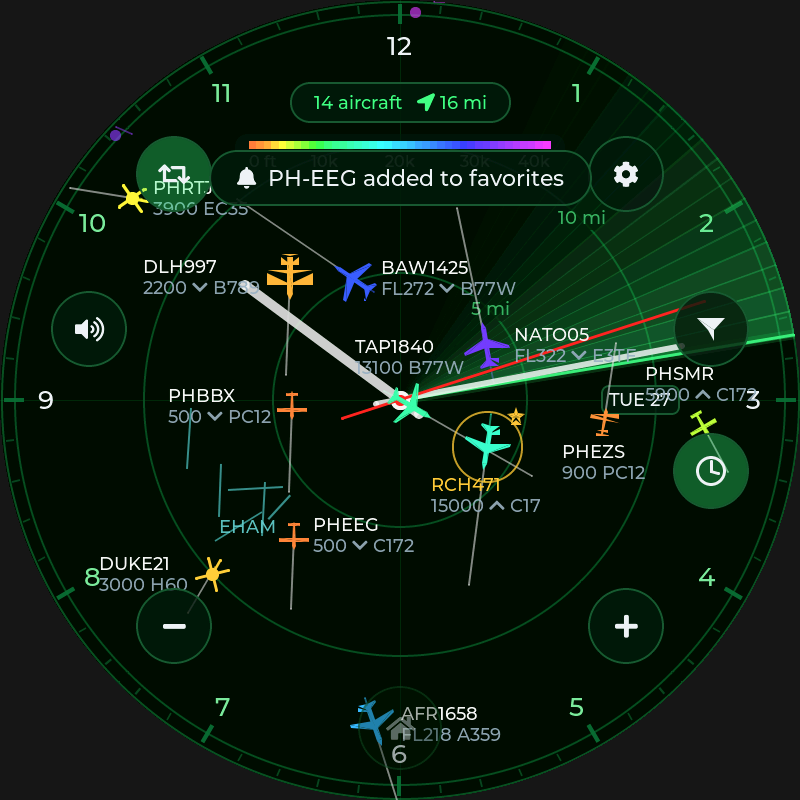
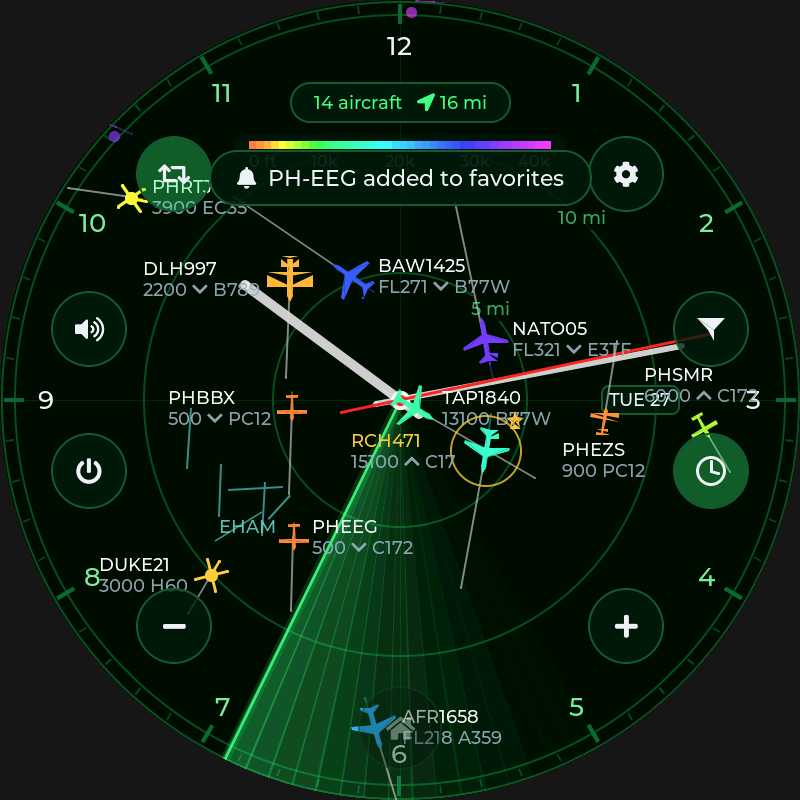
Sleep button: screen off and muted until a tap
- Power button on the radar (left, mirroring the clock button).
- app::setSleeping(): backlight off, app sounds muted, dimming paused;
  alarms still ring and wake it.
- A black full-screen layer takes the waking tap and waits for release, so
  the tap never presses anything underneath. Simulator checks this.

Claude-Session: https://claude.ai/code/session_01HfMd1HJ3Bw5mqceYhznHAm

diff --git a/main/app/app.cpp b/main/app/app.cpp
@@ -32,6 +32,7 @@ constexpr uint32_t kSaveDebounceMs = 2500;
 
 uint32_t s_last_activity = 0;
 bool s_dimmed = false;
+bool s_sleeping = false;  // screen off and sounds muted until a tap (or an alarm)
 
 // Alarms (UI task only).
 int s_ringing = -1;
@@ -118,7 +119,8 @@ bool downloadTrace(const char* hex, core::trace::Trace* out) {
 }
 
 void applyHardware() {
-  if (!s_dimmed) plat::setBrightness(s_settings.brightness);
+  if (s_sleeping) plat::setBrightness(0);
+  else if (!s_dimmed) plat::setBrightness(s_settings.brightness);
   // A ringing alarm is never quieter than 70 %, whatever the volume setting.
   plat::setVolume(s_ringing >= 0 ? std::max<int>(s_settings.volume, 70) : s_settings.volume);
 }
@@ -129,7 +131,8 @@ void startRinging(int index) {
   s_next_beep_ms = s_ring_started_ms;
   s_snoozed = -1;
   s_snooze_until_s = 0;
-  userActivity();  // wake a dimmed screen
+  s_sleeping = false;  // an alarm wakes a sleeping screen
+  userActivity();      // and a dimmed one
   applyHardware();
 }
 
@@ -325,7 +328,7 @@ void tick(uint32_t now_ms) {
   checkAlarms(now_ms);
   if (s_dirty && now_ms - s_dirty_since >= kSaveDebounceMs) settingsFlush();
 
-  if (s_settings.dim_after_min > 0 && !s_dimmed &&
+  if (s_settings.dim_after_min > 0 && !s_dimmed && !s_sleeping &&
       now_ms - s_last_activity >= s_settings.dim_after_min * 60000u) {
     s_dimmed = true;
     plat::setBrightness(s_settings.dim_brightness);
@@ -362,9 +365,19 @@ int snoozeMinutesLeft() {
   return left <= 0 ? 0 : static_cast<int>((left + 59) / 60);
 }
 
+void setSleeping(bool on) {
+  if (on == s_sleeping) return;
+  s_sleeping = on;
+  s_dimmed = false;
+  s_last_activity = plat::millis();
+  applyHardware();
+}
+
+bool sleeping() { return s_sleeping; }
+
 bool userActivity() {
   s_last_activity = plat::millis();
-  if (!s_dimmed) return false;
+  if (s_sleeping || !s_dimmed) return false;  // waking from sleep is the UI's job (one tap)
   s_dimmed = false;
   plat::setBrightness(s_settings.brightness);
   return true;
@@ -632,7 +645,7 @@ void startNetworkTask() { plat::startTask("adsb", networkLoop, 16 * 1024, 4); }
 
 void sound(core::Sound s) {
   const core::Settings& st = s_settings;
-  if (!st.sound_enabled) return;
+  if (!st.sound_enabled || s_sleeping) return;
   switch (s) {
     case core::Sound::Click: if (!st.sound_touch) return; break;
     case core::Sound::Ping: if (!st.sound_sweep_ping) return; break;

diff --git a/main/ui/ui.cpp b/main/ui/ui.cpp
@@ -94,7 +94,35 @@ void updateAlarmDialog() {
   }, true);
 }
 
+// While asleep: a black, full-screen layer that takes the waking tap, so the
+// tap can't also press whatever is under it.
+lv_obj_t* s_sleep_layer = nullptr;
+
+void onSleepPressed(lv_event_t*) {
+  lv_indev_t* indev = lv_indev_active();
+  if (indev) lv_indev_wait_release(indev);  // the rest of this touch does nothing
+  app::setSleeping(false);
+}
+
+void updateSleepLayer() {
+  const bool asleep = app::sleeping();
+  if (asleep && s_sleep_layer == nullptr) {
+    s_sleep_layer = lv_obj_create(lv_layer_top());
+    lv_obj_remove_style_all(s_sleep_layer);
+    lv_obj_set_size(s_sleep_layer, screenW(), screenH());
+    lv_obj_set_style_bg_color(s_sleep_layer, lv_color_black(), 0);
+    lv_obj_set_style_bg_opa(s_sleep_layer, LV_OPA_COVER, 0);
+    lv_obj_add_flag(s_sleep_layer, LV_OBJ_FLAG_CLICKABLE);
+    lv_obj_add_event_cb(s_sleep_layer, onSleepPressed, LV_EVENT_PRESSED, nullptr);
+    lv_obj_move_background(s_sleep_layer);  // an alarm dialog stays on top of it
+  } else if (!asleep && s_sleep_layer != nullptr) {
+    lv_obj_delete_async(s_sleep_layer);  // we may be inside its own event
+    s_sleep_layer = nullptr;
+  }
+}
+
 void onAppTimer(lv_timer_t*) {
+  updateSleepLayer();
   updateAlarmDialog();
   // Any touch on any screen keeps the backlight up.
   if (lv_display_get_inactive_time(s_disp) < 400) app::userActivity();
@@ -134,6 +162,8 @@ bool sameFavorites(const std::vector<core::Favorite>& a, const std::vector<core:
 }
 
 }  // namespace
+
+bool settingsOpen() { return s_settings_screen != nullptr; }
 
 void openSettings(Page page) {
   if (s_settings_screen != nullptr) return;

diff --git a/main/ui/hud.cpp b/main/ui/hud.cpp
@@ -31,6 +31,7 @@ struct Hud {
   lv_obj_t* mute = nullptr;
   lv_obj_t* mute_label = nullptr;
   lv_obj_t* clock = nullptr;
+  lv_obj_t* sleep = nullptr;
   lv_obj_t* alt_key = nullptr;    // altitude color scale under the status pill
   lv_obj_t* alarm_box = nullptr;  // "alarm ringing" dialog, while shown
   lv_obj_t* gear = nullptr;
@@ -420,6 +421,7 @@ void leavePickMode() {
   setHidden(h.filter, false);
   setHidden(h.mute, false);
   setHidden(h.clock, false);
+  setHidden(h.sleep, false);
   updateCard();
 }
 
@@ -472,6 +474,7 @@ void enterPickMode() {
   setHidden(h.filter, true);
   setHidden(h.mute, true);
   setHidden(h.clock, true);
+  setHidden(h.sleep, true);
   updateCard();
 }
 
@@ -546,6 +549,10 @@ void create(lv_obj_t* parent) {
     lv_obj_set_style_image_recolor_opa(icon, LV_OPA_COVER, 0);
   }
   placePolar(h.clock, 103, 0.80f);
+
+  // Sleep, mirroring the clock button: screen off and quiet until a tap.
+  h.sleep = iconButton(h.controls, LV_SYMBOL_POWER, d, [] { app::setSleeping(true); });
+  placePolar(h.sleep, -103, 0.80f);
 
   // Mute, mirroring the filter button on the left.
   h.mute = iconButton(h.controls, LV_SYMBOL_VOLUME_MAX, d, [] {

diff --git a/sim/sim_main.cpp b/sim/sim_main.cpp
@@ -504,6 +504,18 @@ int main(int argc, char** argv) {
     shot((p + "38_changes_discarded").c_str());
   }
 
+  // Sleep: screen off, then one tap on top of the gear button only wakes it.
+  {
+    app::setSleeping(true);
+    run(600);
+    shot((p + "50_sleeping").c_str());
+    tap(S(626), S(174));  // where the gear button is
+    run(600);
+    const bool ok = !app::sleeping() && !ui::settingsOpen();
+    std::printf("sleep check: %s\n", ok ? "OK" : "FAILED");
+    if (!ok) return 1;
+  }
+
   // Add a favorite by tail number.
   {
     std::vector<core::Track> tracks;

diff --git a/main/app/app.h b/main/app/app.h
@@ -33,6 +33,12 @@ void settingsFlush();
 uint32_t settingsGeneration();
 /** Called periodically from the UI task (handles debounced save, dimming). */
 void tick(uint32_t now_ms);
+/**
+ * Sleep: backlight off and sounds muted (alarms still ring and wake it).
+ * The UI wakes it on the next tap.
+ */
+void setSleeping(bool on);
+bool sleeping();
 /** Reset the idle timer (any touch). Returns true if the screen was dimmed. */
 bool userActivity();
 

diff --git a/main/ui/ui.h b/main/ui/ui.h
@@ -14,6 +14,9 @@ void init(lv_display_t* disp);
 
 /** Opens the settings screen at a page. */
 void openSettings(Page page = Page::Main);
+/** True while the settings screen is shown. */
+bool settingsOpen();
+
 /**
  * Returns from settings to the radar. With `discard`, every setting and
  * favorite goes back to how it was when settings were opened (Wi-Fi, which

diff --git a/CHANGELOG.md b/CHANGELOG.md
@@ -10,6 +10,13 @@ for your board size **and** your ESP32-P4 chip revision. See
 Upgrading keeps your Wi-Fi, home location, settings and favorites, unless an
 entry below says otherwise.
 
+## [v1.9.0] - 2026-10-28
+
+### Added
+- **Sleep button** (power symbol, left side of the radar): turns the screen
+  off and mutes sounds. A single tap anywhere wakes it, without pressing
+  anything underneath. Alarms still ring and wake it.
+
 ## [v1.8.0] - 2026-10-28
 
 ### Added
@@ -256,6 +263,7 @@ First release.
   sound, traffic and about.
 - Known issue: only boots on ESP32-P4 chip revision v1.x (fixed in v1.0.1).
 
+[v1.9.0]: https://github.com/ShadowStacker/P4-Radar/releases/tag/v1.9.0
 [v1.8.0]: https://github.com/ShadowStacker/P4-Radar/releases/tag/v1.8.0
 [v1.7.0]: https://github.com/ShadowStacker/P4-Radar/releases/tag/v1.7.0
 [v1.6.0]: https://github.com/ShadowStacker/P4-Radar/releases/tag/v1.6.0

diff --git a/docs/USER_GUIDE.md b/docs/USER_GUIDE.md
@@ -88,6 +88,7 @@ whatever area you're looking at, up to the feeds' 250 nm limit.
 | ⚙ Gear | top right | Open Settings |
 | ⏷ Funnel | right | Open the [Filters](#filters) page. Lit while a filter is hiding aircraft. |
 | 🔊 Speaker | left | Mute or unmute all sounds (same as **Sound → Sound**) |
+| ⏻ Power | left, below the speaker | **Sleep**: turns the screen off and mutes all sounds. One tap anywhere wakes it (that tap does nothing else). Traffic keeps updating while asleep, and alarms still ring and wake the screen. |
 | 🕘 Clock | right, below the funnel | Switch the bezel between compass headings and a [clock face](#clock-and-alarms) (lit = clock) |
 | ⟳ Loop | top left | Turn the radar sweep animation on or off (lit = on) |
 | ＋ / − | lower right / lower left | Zoom in / out by 2× |

diff --git a/README.md b/README.md
@@ -69,7 +69,8 @@ Details are in [Flashing the firmware](docs/USER_GUIDE.md#flashing-the-firmware)
   between them.
 - Double-tap zooms in. The **＋/−** buttons also zoom.
 - **Home** button flies back to your home location and zoom. Quick buttons
-  for **Filters**, **Mute** and the **Clock** face sit around the edge.
+  for **Filters**, **Mute**, **Sleep** (screen off, tap to wake) and the
+  **Clock** face sit around the edge.
 - **Background maps**: dark street map or topo map under the radar, tinted
   to the theme, with tiles saved on an optional microSD card for instant and
   offline use.
